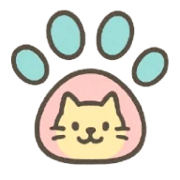
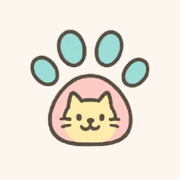
исправлены фавиконы и SEO переадресации

diff --git a/proxy.ts b/proxy.ts
@@ -38,6 +38,7 @@ function redirectToCanonical(request: NextRequest, pathname: string, queryKeysTo
 
 export function proxy(request: NextRequest) {
   const { pathname, searchParams } = request.nextUrl;
+  const rawPathname = new URL(request.url).pathname;
   const normalizedPathname = pathname !== "/" ? pathname.replace(/\/+$/, "") || "/" : pathname;
 
   if (
@@ -52,6 +53,21 @@ export function proxy(request: NextRequest) {
   }
 
   const segments = normalizedPathname.split("/").filter(Boolean);
+  const rawSegments = rawPathname.split("/").filter(Boolean);
+
+  if (rawSegments[0] === DEFAULT_LANG) {
+    const canonicalPath = `/${rawSegments.slice(1).join("/")}`.replace(/\/+$/, "") || "/";
+    return redirectToCanonical(request, canonicalPath);
+  }
+
+  if (segments[0] === DEFAULT_LANG) {
+    const canonicalPath = `/${segments.slice(1).join("/")}`;
+    return redirectToCanonical(request, canonicalPath === "/" ? "/" : canonicalPath);
+  }
+
+  if (pathname.length > 1 && pathname.endsWith("/")) {
+    return redirectToCanonical(request, normalizedPathname);
+  }
 
   if (normalizedPathname === "/map") {
     const rawType = QUERY_TYPE_KEYS.map((key) => searchParams.get(key)).find(Boolean);

diff --git a/next.config.js b/next.config.js
@@ -93,6 +93,21 @@ const nextConfig = {
       },
     ];
   },
+  async redirects() {
+    return [
+      {
+        source: "/:path*",
+        has: [
+          {
+            type: "host",
+            value: "laplapla.com",
+          },
+        ],
+        destination: "https://www.laplapla.com/:path*",
+        permanent: true,
+      },
+    ];
+  },
   async rewrites() {
     if (!supabaseStorageOrigin) {
       return [];

diff --git a/pages/_app.tsx b/pages/_app.tsx
@@ -249,14 +249,6 @@ export default function MyApp({ Component, pageProps }: AppProps) {
       <Head>
         <meta key="viewport" name="viewport" content="width=device-width, initial-scale=1" />
         <meta key="p:domain_verify" name="p:domain_verify" content="ff738603a169c8fea886f04008fdc102" />
-        <link rel="icon" href="/favicon.ico" sizes="any" />
-        <link rel="icon" type="image/png" sizes="48x48" href="/favicon_io/favicon-48x48.png" />
-        <link rel="icon" type="image/webp" sizes="32x32" href="/favicon_io/favicon-32x32.webp" />
-        <link rel="icon" type="image/webp" sizes="16x16" href="/favicon_io/favicon-16x16.webp" />
-        <link rel="apple-touch-icon" sizes="180x180" href="/apple-touch-icon.png" />
-        <link rel="manifest" href="/favicon_io/site.webmanifest" />
-        <link rel="icon" type="image/webp" sizes="192x192" href="/favicon_io/android-chrome-192x192.webp" />
-        <link rel="icon" type="image/webp" sizes="512x512" href="/favicon_io/android-chrome-512x512.webp" />
       </Head>
 
       {isBrowserCaptureEnabled && (

diff --git a/public/sw.js b/public/sw.js
@@ -1,11 +1,11 @@
-const CACHE_NAME = "laplapla-pwa-v1";
+const CACHE_NAME = "laplapla-pwa-v2";
 const APP_SHELL_ASSETS = [
   "/",
   "/favicon.ico",
   "/apple-touch-icon.png",
   "/favicon_io/site.webmanifest",
-  "/favicon_io/android-chrome-192x192.webp",
-  "/favicon_io/android-chrome-512x512.webp",
+  "/favicon_io/android-chrome-192x192.png",
+  "/favicon_io/android-chrome-512x512.png",
   "/laplapla-logo.webp",
 ];
 

diff --git a/pages/_document.tsx b/pages/_document.tsx
@@ -6,8 +6,7 @@ export default function Document() {
     <Html className={fontVariableClasses}>
       <Head>
         <link rel="icon" href="/favicon.ico" sizes="any" />
-        <link rel="icon" type="image/webp" sizes="32x32" href="/favicon_io/favicon-32x32.webp" />
-        <link rel="icon" type="image/webp" sizes="16x16" href="/favicon_io/favicon-16x16.webp" />
+        <link rel="icon" type="image/png" sizes="48x48" href="/favicon_io/favicon-48x48.png" />
         <link rel="apple-touch-icon" sizes="180x180" href="/apple-touch-icon.png" />
         <link rel="manifest" href="/favicon_io/site.webmanifest" />
         <meta name="theme-color" content="#fff8ef" />

diff --git a/next-env.d.ts b/next-env.d.ts
@@ -1,6 +1,6 @@
 /// <reference types="next" />
 /// <reference types="next/image-types/global" />
-import "./.next/types/routes.d.ts";
+import "./.next/dev/types/routes.d.ts";
 
 // NOTE: This file should not be edited
 // see https://nextjs.org/docs/pages/api-reference/config/typescript for more information.